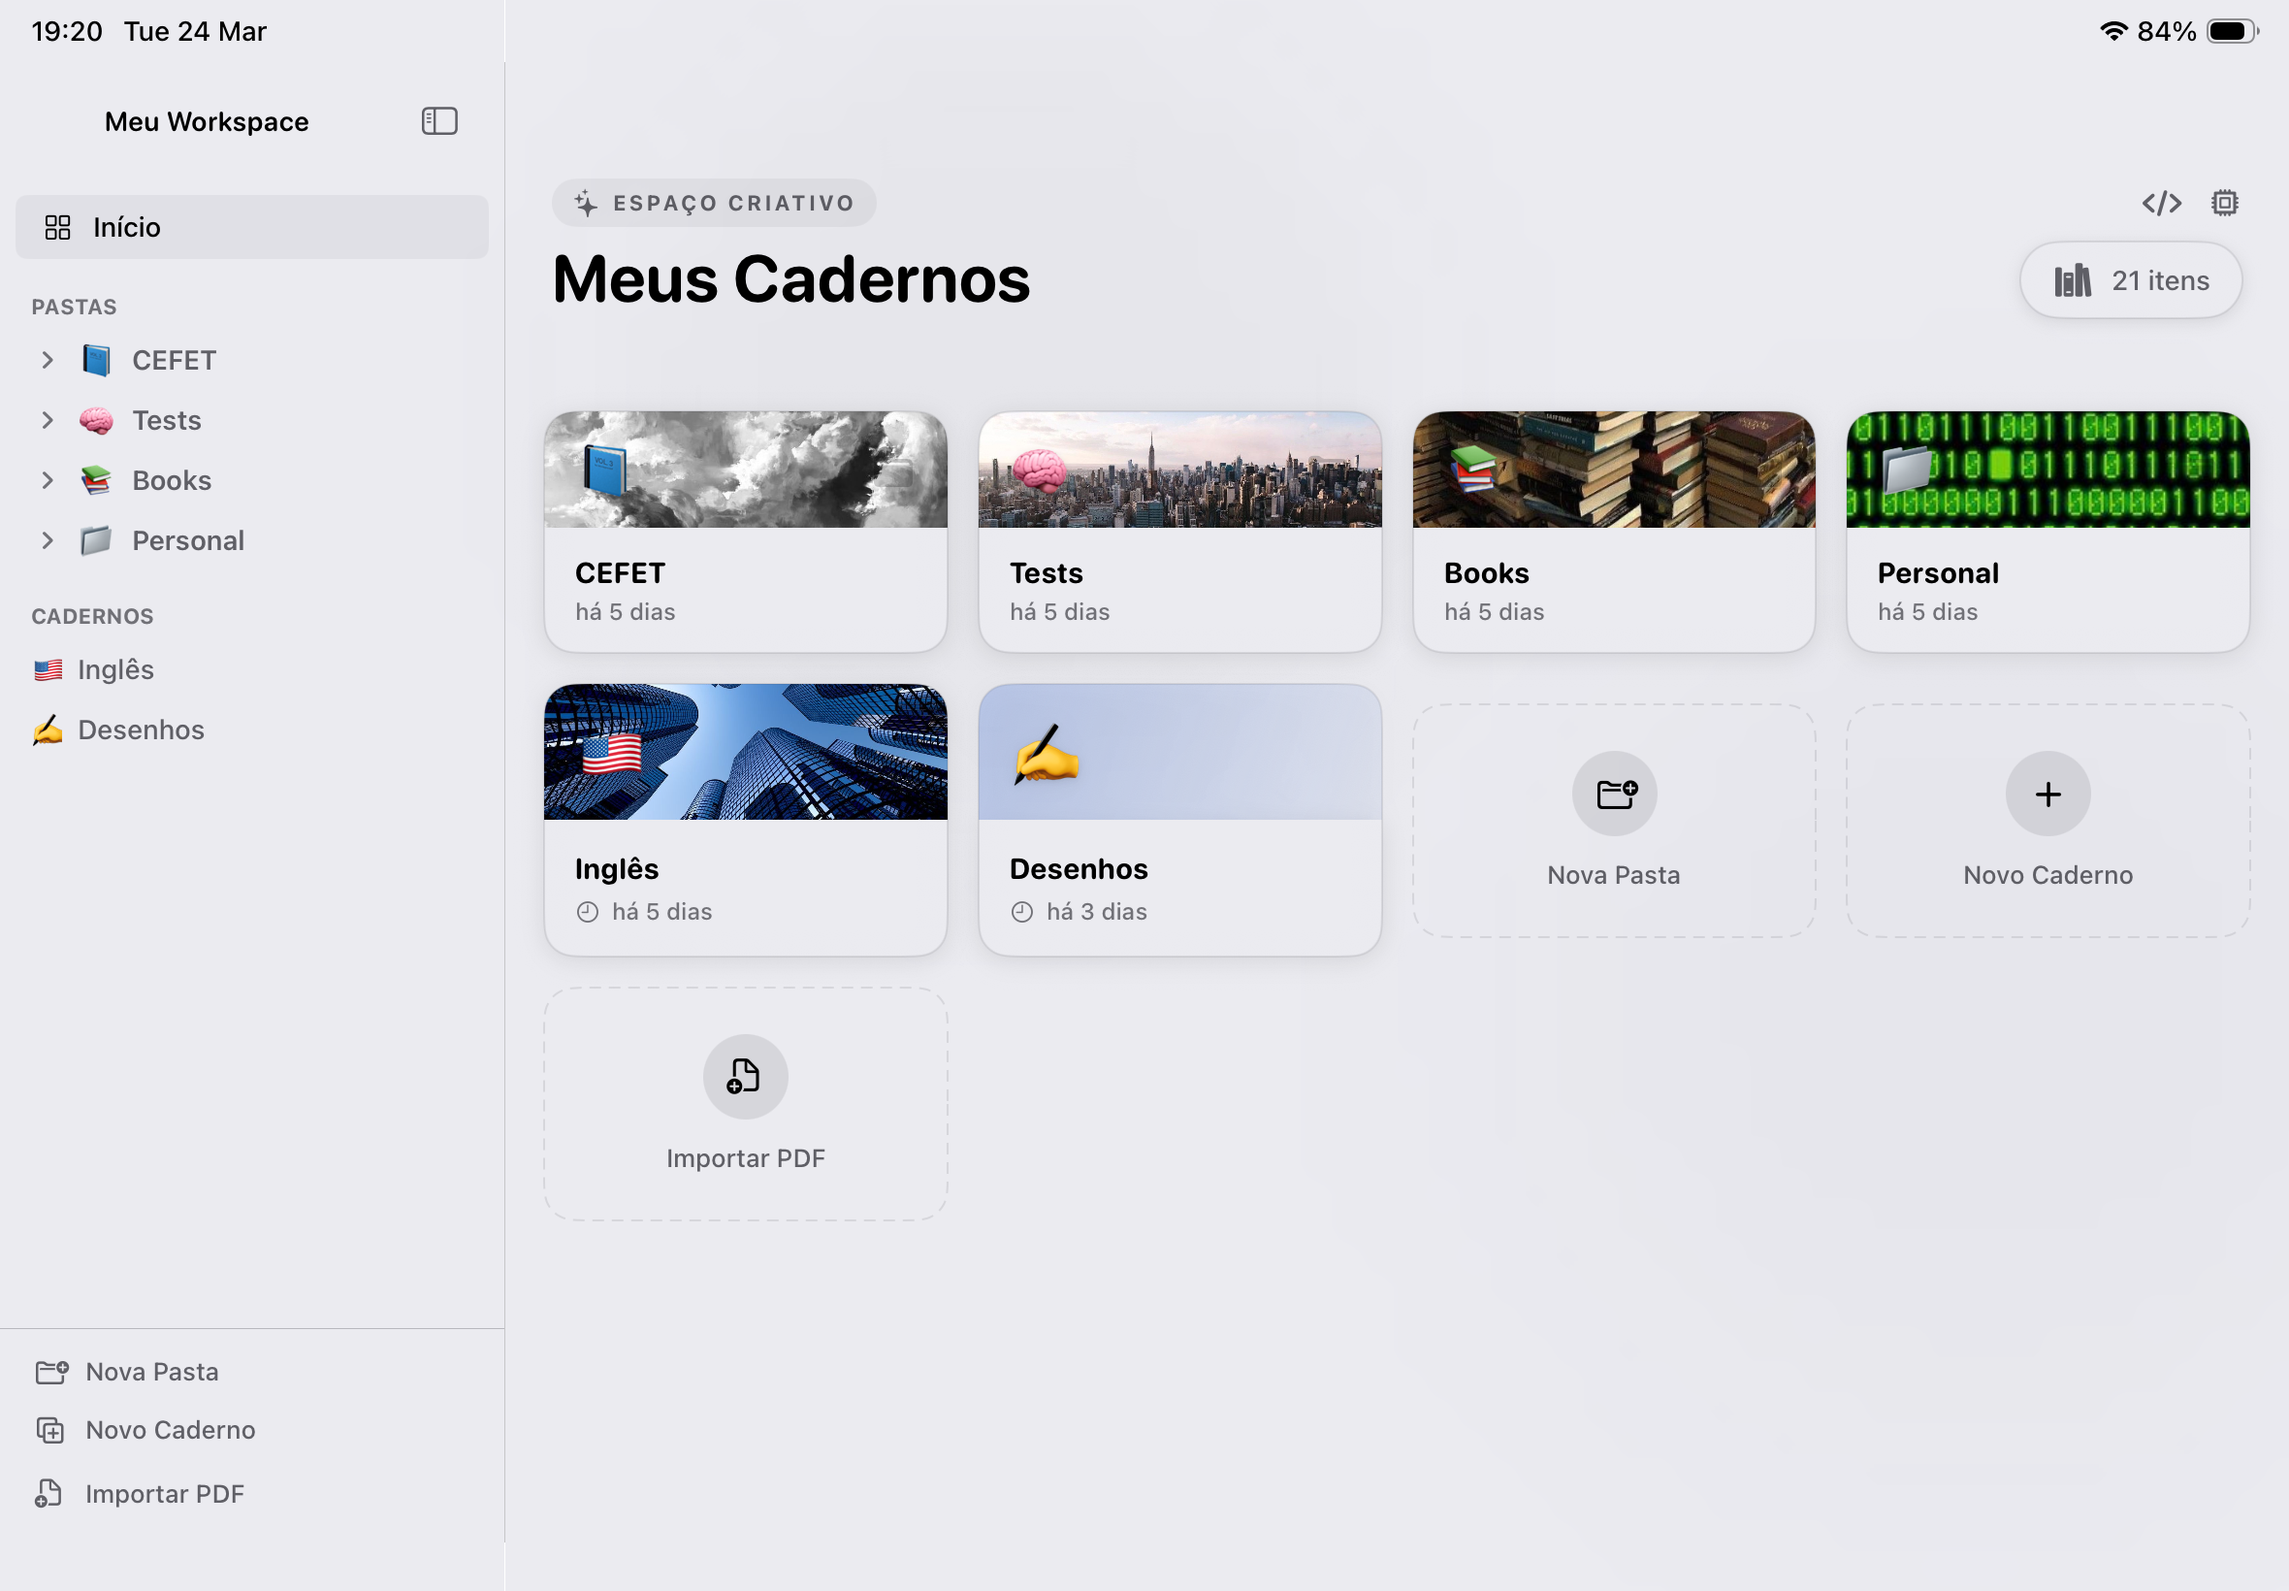
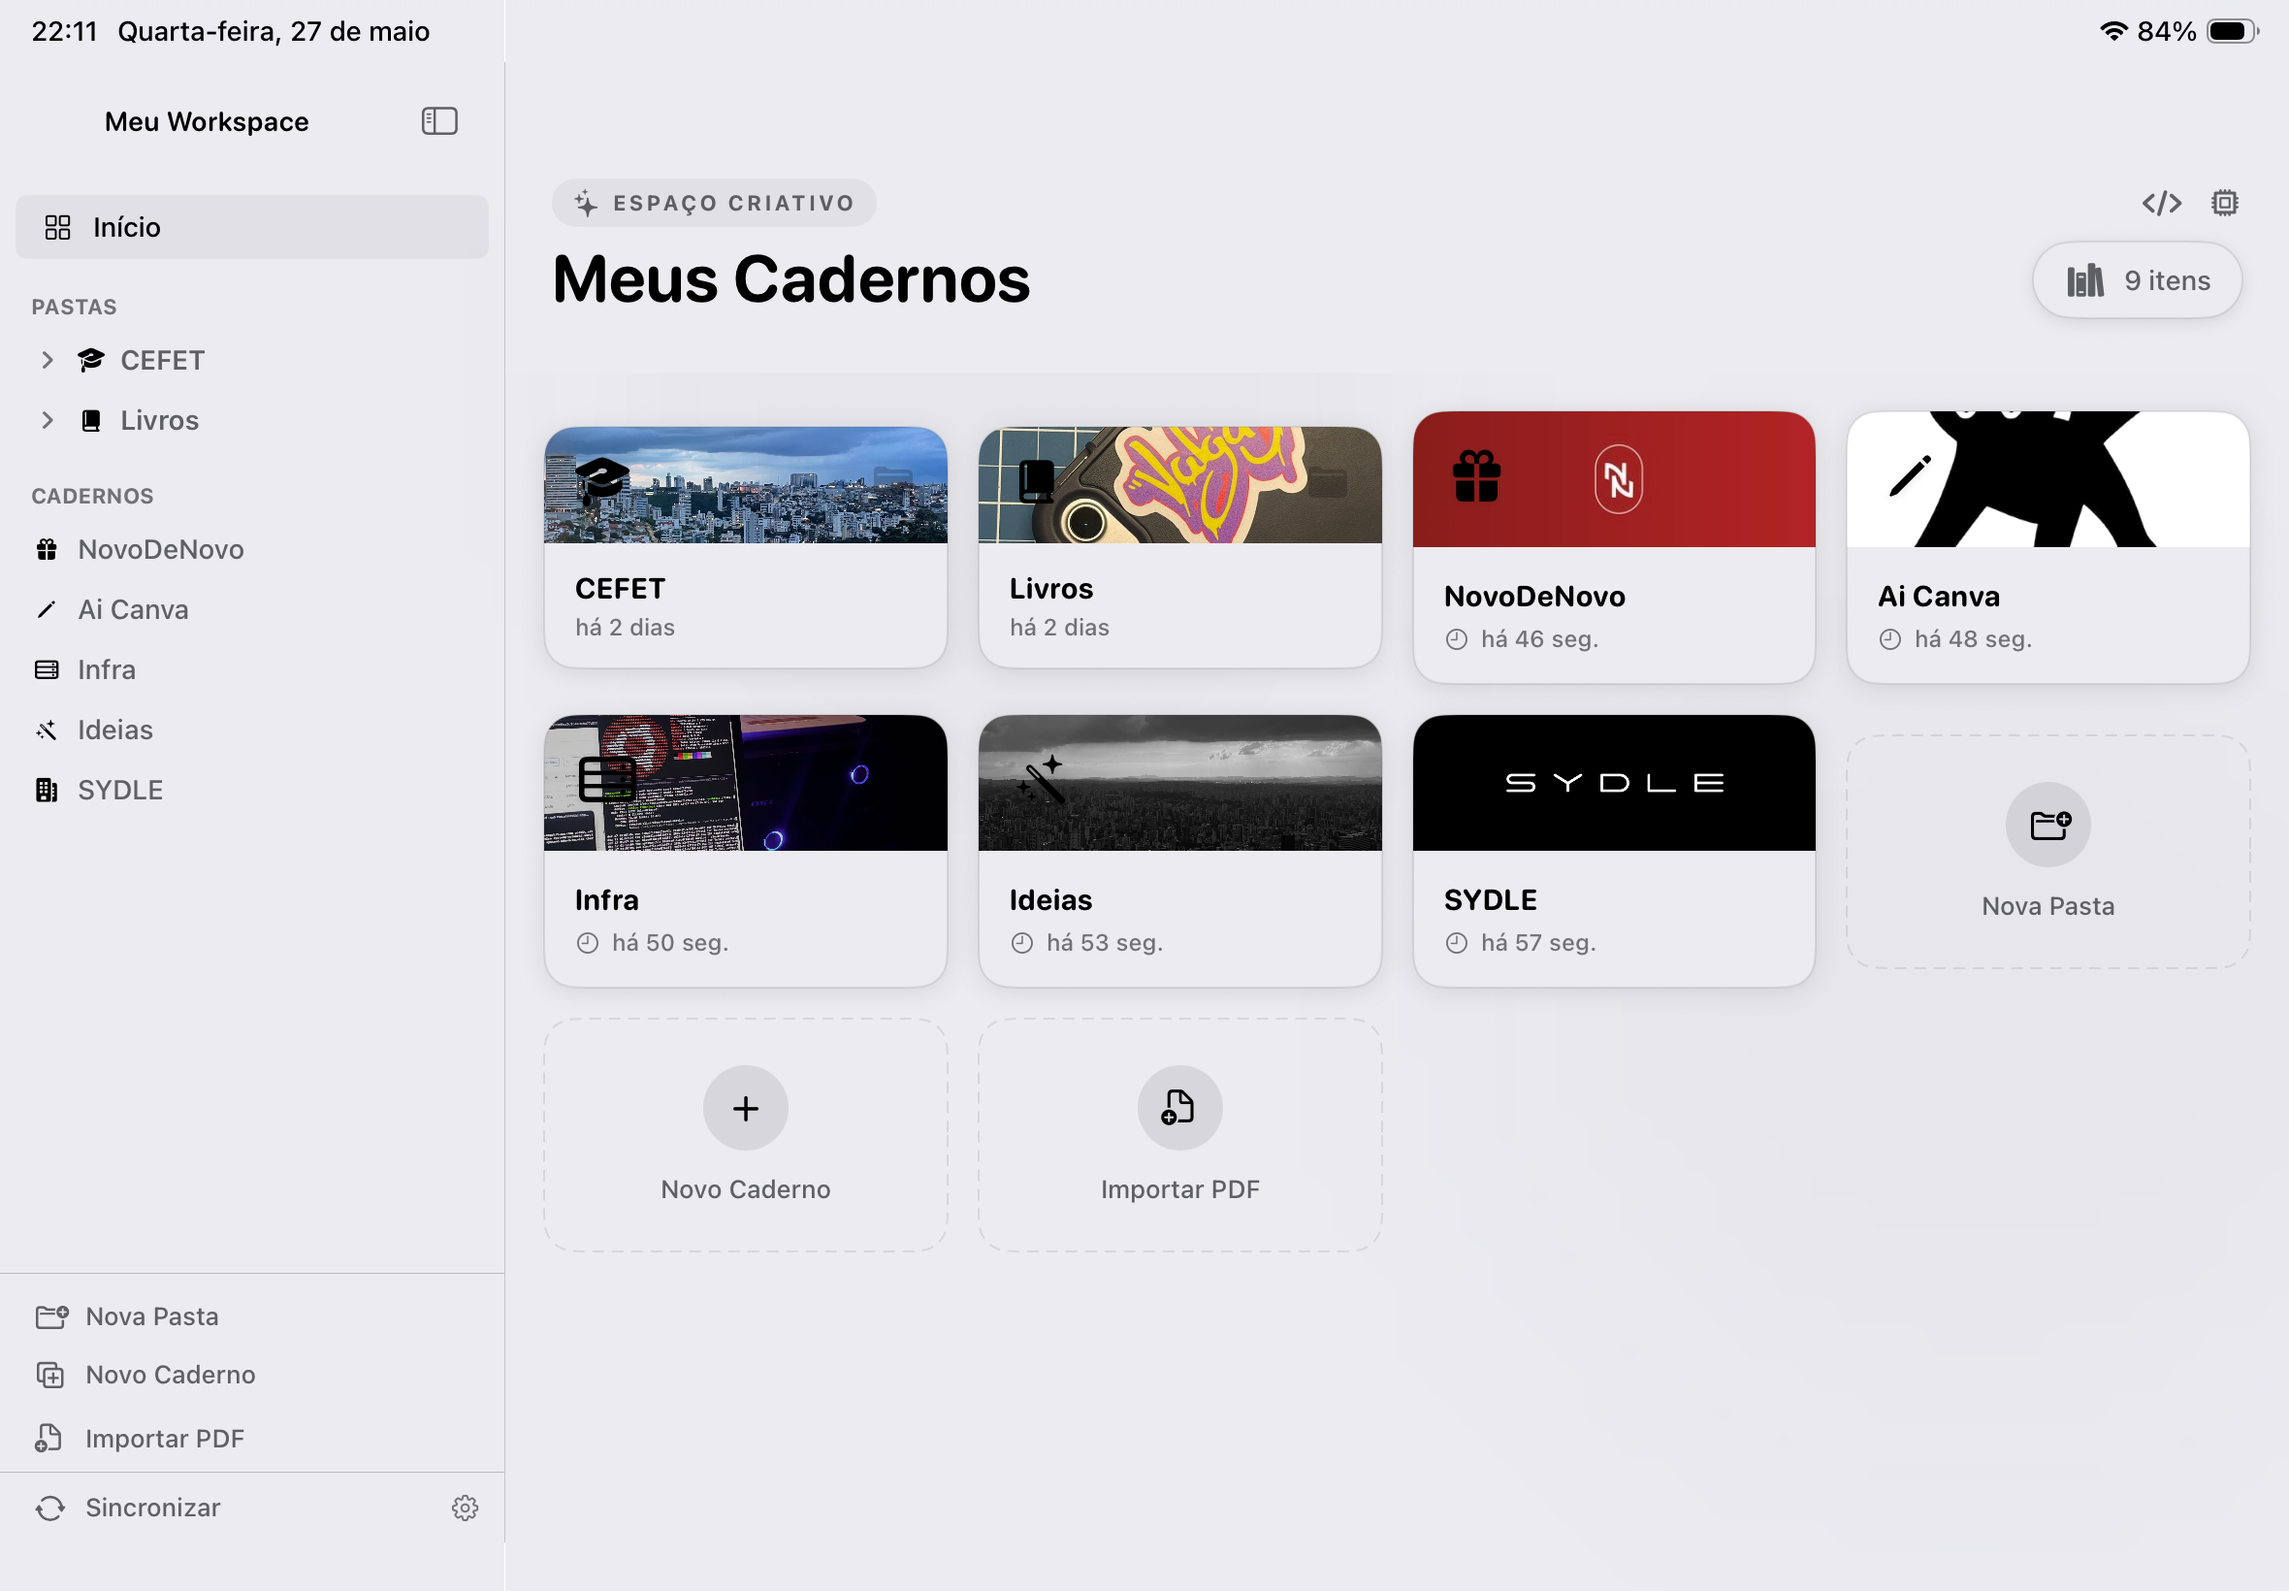
feat: readme images

diff --git a/SYNC.md b/SYNC.md
@@ -1,6 +1,10 @@
-# AICanvas Sync — Complete Technical Reference
+# AICanvas Sync — Complete Technical Referenc
 
 This document explains end-to-end how AICanvas synchronises notebooks from the iOS app to your homelab server, how handwritten notes are converted to Markdown, and how those Markdown files are pushed to Obsidian (via Google Drive) and Notion.
+
+<div align="center">
+<img src="./.github/src/dark.PNG" width="700" alt="AI Canvas Logo">
+</div>
 
 ---
 
